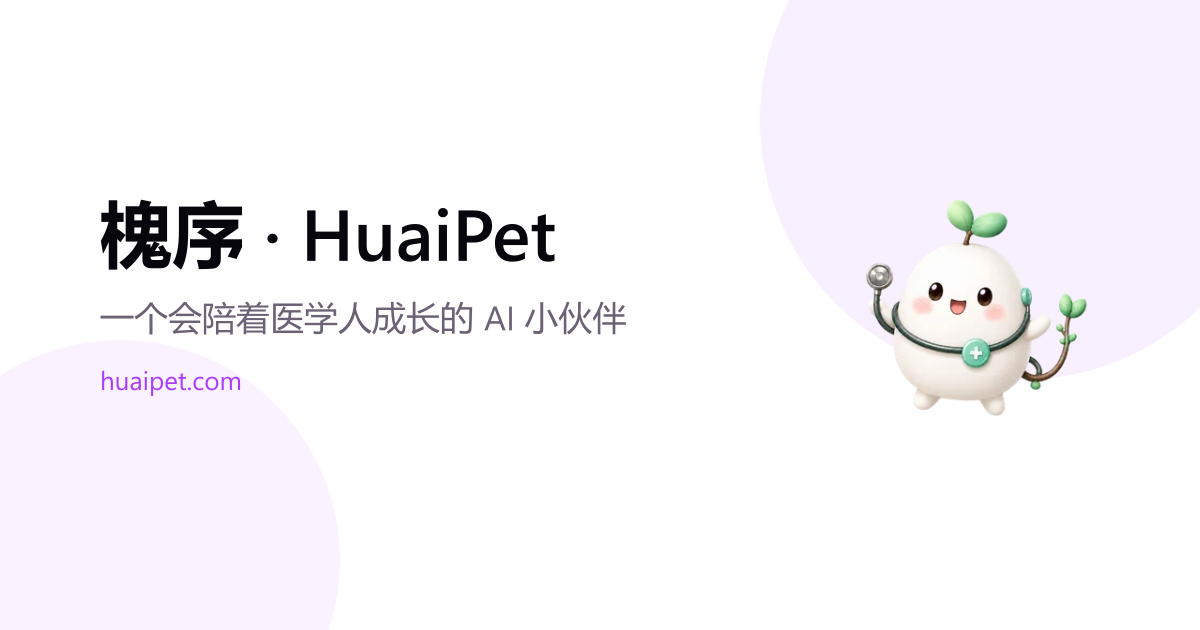
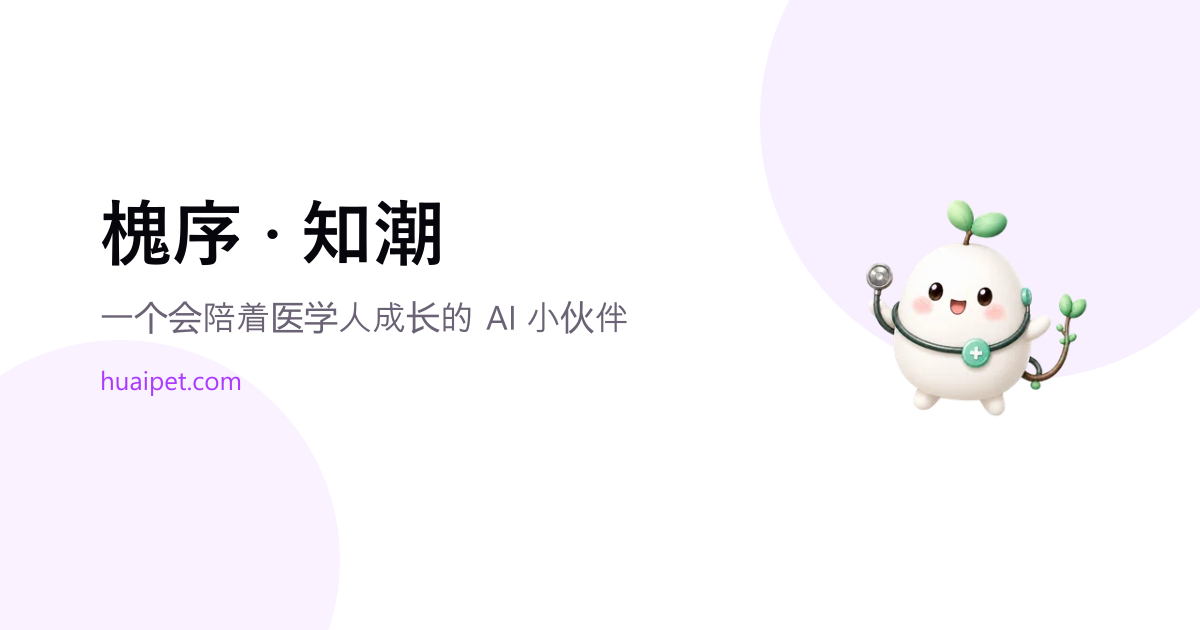
feat: rebrand public site to Zhichao

Changed region(s): [[0.0617, 0.3016, 0.4625, 0.4222], [0.0925, 0.4825, 0.5242, 0.5429]]

diff --git a/src/App.tsx b/src/App.tsx
@@ -89,8 +89,8 @@ function detectPlatform() {
 }
 
 const platformNotices: Record<string, string> = {
-  ios: '检测到你可能在用 iOS/iPadOS 设备——HuaiPet 目前只支持 Android，iOS 版本还在开发中，敬请期待。',
-  harmonyos: '检测到你可能在用鸿蒙系统——HuaiPet 目前只支持 Android，鸿蒙原生版本我们还在评估适配方案。',
+  ios: '检测到你可能在用 iOS/iPadOS 设备——知潮目前只支持 Android，iOS 版本还在开发中，敬请期待。',
+  harmonyos: '检测到你可能在用鸿蒙系统——知潮目前只支持 Android，鸿蒙原生版本我们还在评估适配方案。',
 }
 
 const platforms = [
@@ -108,7 +108,7 @@ const platforms = [
 const cocreateRoles = [
   {
     title: '剪辑 / 视频创作',
-    desc: '槐序 HuaiPet 的抖音开发日记需要人帮忙剪素材、把开发过程做成好看的内容，一起把这个项目的故事讲给更多人听。',
+    desc: '槐序工作室的知潮开发日记需要人帮忙剪素材、把开发过程做成好看的内容，一起把这个项目的故事讲给更多人听。',
   },
   {
     title: '插画 / 角色设计',
@@ -120,16 +120,16 @@ const cocreateRoles = [
   },
   {
     title: '宣传 / 拉新',
-    desc: '好产品也需要被更多人看到，需要懂社群运营、擅长宣传推广的人帮忙把 HuaiPet 带给更多医学生和医护人员。',
+    desc: '好产品也需要被更多人看到，需要懂社群运营、擅长宣传推广的人帮忙把知潮带给更多医学生和医护人员。',
   },
 ]
 
 const contributors = [
   {
     name: '知许',
-    title: 'HuaiPet 第一批共创成员',
+    title: '知潮第一批共创成员',
     contribution: '宣传协助、内测反馈',
-    thanks: '感谢知许在 HuaiPet 早期内测阶段参与共创，协助宣传、反馈体验，并和我们一起打磨这个给医学人用的 AI 学习工具。',
+    thanks: '感谢知许在知潮（原 HuaiPet）早期内测阶段参与共创，协助宣传、反馈体验，并和我们一起打磨这个给医学人用的 AI 学习工具。',
   },
 ]
 
@@ -139,7 +139,7 @@ const faq = [
     a: '有。本服务包含 AI 拟人化陪伴功能，按《人工智能拟人化互动服务管理暂行办法》仅面向年满 18 周岁的用户。注册时需填写出生年月用于年龄核验；已注册的老用户在新版客户端中也需要补填。',
   },
   {
-    q: 'HuaiPet 免费吗？',
+    q: '知潮免费吗？',
     a: '目前免费，且不提供任何付费购买功能——App 内的金币只能通过学习、答题、完成任务获得，不能用真实货币购买。如果未来提供自愿支持类功能，我们会另行明确告知，并且不会以"增进与朵朵的情感关系"作为付费卖点。',
   },
   {
@@ -178,12 +178,12 @@ const changelog = [
   {
     date: '2026-07-08',
     title: 'Android 内测开启',
-    desc: 'HuaiPet Android 移动端正式开启邀请制内测，通过抖音 @槐序学长 联系获取邀请码。',
+    desc: '知潮（当时名为 HuaiPet）Android 移动端正式开启邀请制内测，通过抖音 @槐序学长 联系获取邀请码。',
   },
   {
     date: '2026-07-07',
     title: '官网上线',
-    desc: '槐序 HuaiPet 官网正式上线，huaipet.com 可以访问了。',
+    desc: '知潮前身“槐序 HuaiPet”的官网正式上线，huaipet.com 可以访问了。',
   },
   {
     date: '2026-07-06',
@@ -239,7 +239,7 @@ function App() {
     <div className="page">
       <header className="nav">
         <div className="nav-inner">
-          <span className="brand">槐序 HuaiPet</span>
+          <span className="brand">槐序 · 知潮</span>
           <nav>
             <a href="#philosophy">理念</a>
             <a href="#features">功能</a>
@@ -339,7 +339,7 @@ function App() {
         <section id="about" className="about">
           <h2 className="section-title reveal">关于我们</h2>
           <p className="reveal">
-            槐序 HuaiPet 是一个正在开发中的独立项目，目标是做一个长期好用、越用越懂你薄弱点的医学学习工具，
+            知潮（原 HuaiPet）是槐序工作室持续开发的学习工具，目标是长期好用、越用越懂你的薄弱点，
             用轻量的陪伴让漫长的医学备考不那么枯燥。项目由个人开发者持续迭代打造，你可以在抖音
             <a href="https://v.douyin.com/4vpWBY5MsL0/" target="_blank" rel="noopener noreferrer"> @槐序学长 </a>
             关注最新进展，或通过邮箱
@@ -352,7 +352,7 @@ function App() {
           <div className="cocreate">
             <h2 className="section-title reveal">招募共创</h2>
             <p className="cocreate-intro">
-              槐序 HuaiPet 目前是一个人在做的独立项目，还没有任何收入——这不是一份工作，是一次"为爱发电"的邀请。
+              知潮目前是槐序工作室主理人独立推进的项目，还没有任何收入——这不是一份工作，是一次"为爱发电"的邀请。
               如果你也觉得"医学备考是场持久战，需要一个长期好用、越用越懂你薄弱点的学习工具"这件事值得做，欢迎一起加入，把它做出来。
             </p>
             <div className="card-grid">
@@ -488,7 +488,7 @@ function App() {
         <p>
           联系邮箱：<a href="mailto:[email redacted]">[email redacted]</a>
         </p>
-        <p>槐序 HuaiPet · 敬请期待</p>
+        <p>槐序工作室 · 知潮</p>
         <p className="ai-notice-footer">
           🤖 朵朵是 AI 程序，不是真人。本站与 App 内的 AI 生成内容仅供学习参考，不构成医疗建议。
         </p>

diff --git a/index.html b/index.html
@@ -7,22 +7,22 @@
     <link rel="apple-touch-icon" href="/apple-touch-icon.png" />
     <link rel="canonical" href="https://huaipet.com/" />
     <meta name="viewport" content="width=device-width, initial-scale=1.0" />
-    <meta name="description" content="槐序 HuaiPet —— 给医学人的 AI 学习搭子：AI 出题、错题复盘、遗忘曲线复习与轻量养成激励。朵朵是 AI 程序，不是真人；本服务仅面向年满 18 周岁的用户。" />
-    <meta name="keywords" content="HuaiPet,槐序,医学学习,AI学习工具,医学考试,医学生,执业医师,智能考试系统,错题本,遗忘曲线复习" />
-    <title>槐序 HuaiPet —— 给医学人的 AI 学习搭子</title>
+    <meta name="description" content="槐序 · 知潮（原 HuaiPet）—— 给医学人的 AI 学习搭子：AI 出题、错题复盘、遗忘曲线复习与轻量养成激励。朵朵是 AI 程序，不是真人；本服务仅面向年满 18 周岁的用户。" />
+    <meta name="keywords" content="知潮,HuaiPet,槐序,医学学习,AI学习工具,医学考试,医学生,执业医师,智能考试系统,错题本,遗忘曲线复习" />
+    <title>槐序 · 知潮 —— 给医学人的 AI 学习搭子</title>
 
     <meta property="og:type" content="website" />
     <meta property="og:url" content="https://huaipet.com/" />
-    <meta property="og:site_name" content="槐序 HuaiPet" />
+    <meta property="og:site_name" content="槐序 · 知潮" />
     <meta property="og:locale" content="zh_CN" />
-    <meta property="og:title" content="槐序 HuaiPet" />
+    <meta property="og:title" content="槐序 · 知潮" />
     <meta property="og:description" content="给医学人的 AI 学习搭子。朵朵是 AI 程序，不是真人；仅面向年满 18 周岁的用户。" />
     <meta property="og:image" content="https://huaipet.com/og-image.png" />
     <meta property="og:image:width" content="1200" />
     <meta property="og:image:height" content="630" />
-    <meta property="og:image:alt" content="槐序 HuaiPet —— 给医学人的 AI 学习搭子" />
+    <meta property="og:image:alt" content="槐序 · 知潮 —— 给医学人的 AI 学习搭子" />
     <meta name="twitter:card" content="summary_large_image" />
-    <meta name="twitter:title" content="槐序 HuaiPet" />
+    <meta name="twitter:title" content="槐序 · 知潮" />
     <meta name="twitter:description" content="给医学人的 AI 学习搭子。朵朵是 AI 程序，不是真人。" />
     <meta name="twitter:image" content="https://huaipet.com/og-image.png" />
 
@@ -30,7 +30,7 @@
       {
         "@context": "https://schema.org",
         "@type": "SoftwareApplication",
-        "name": "槐序 HuaiPet",
+        "name": "槐序 · 知潮",
         "url": "https://huaipet.com/",
         "description": "给医学人的 AI 学习工具：AI 出题、错题复盘、遗忘曲线复习与轻量养成激励。朵朵是 AI 程序、不是真人；仅面向年满 18 周岁用户，AI 生成内容仅供学习参考。",
         "applicationCategory": "EducationalApplication",

diff --git a/public/legal/privacy.html b/public/legal/privacy.html
@@ -3,7 +3,7 @@
   <head>
     <meta charset="UTF-8" />
     <meta name="viewport" content="width=device-width, initial-scale=1.0" />
-    <title>隐私政策 · 槐序 HuaiPet</title>
+    <title>隐私政策 · 知潮</title>
     <link rel="icon" type="image/png" href="/favicon-32.png" />
     <link rel="stylesheet" href="/legal/legal.css" />
   </head>
@@ -14,8 +14,8 @@
       <p class="legal-updated">生效日期 / 最后更新：2026-07-15（上一版本：2026-07-10）</p>
 
       <p>
-        本隐私政策适用于“槐序 HuaiPet”官网（huaipet.com）以及 HuaiPet
-        系列客户端。HuaiPet
+        本隐私政策适用于“知潮（原 HuaiPet）”官网（目前为 huaipet.com）以及知潮
+        系列客户端。知潮
         目前由个人开发者维护。我们非常重视你的隐私，本文说明我们会收集哪些信息、
         为什么收集、如何使用与保护、数据存储在哪里、保存多久，以及你能行使哪些权利。
       </p>
@@ -73,7 +73,7 @@
       </p>
       <p><strong>（四）谁能看到、会不会外传</strong></p>
       <ul>
-        <li><strong>仅限管理员</strong>（目前 HuaiPet 的管理员只有开发者本人）。危机级事件会触发一条后台提醒，但<strong>该提醒本身不包含你的任何个人信息</strong>（不含昵称、账号，也不含你的原话）——它只是提示管理员“有人需要跟进”。你的身份与原话摘要<strong>只能在后台的「风险干预」页面查看</strong>，该页面是<strong>实时读取上述记录</strong>的，因此你一旦注销账号，记录随之删除，管理员也就再也无法查看。这样设计是为了确保“注销即删除”是真的，而不是在别处留下删不掉的副本。同一用户 1 小时内的重复消息只提醒一次。</li>
+        <li><strong>仅限管理员</strong>（目前知潮的管理员只有开发者本人）。危机级事件会触发一条后台提醒，但<strong>该提醒本身不包含你的任何个人信息</strong>（不含昵称、账号，也不含你的原话）——它只是提示管理员“有人需要跟进”。你的身份与原话摘要<strong>只能在后台的「风险干预」页面查看</strong>，该页面是<strong>实时读取上述记录</strong>的，因此你一旦注销账号，记录随之删除，管理员也就再也无法查看。这样设计是为了确保“注销即删除”是真的，而不是在别处留下删不掉的副本。同一用户 1 小时内的重复消息只提醒一次。</li>
         <li><strong>危机级消息不会被发送给第三方大模型服务商 DeepSeek</strong>——它在到达 AI 之前就被服务器拦下并直接作答了。</li>
         <li>我们<strong>不会</strong>把这类记录用于广告、画像、评级、推荐或任何商业用途，<strong>不会</strong>提供给任何第三方（依法配合有权机关的法定要求除外），<strong>不会</strong>与你的学习数据、成绩数据混用，也不会因此对你的账号做任何不利处置。</li>
       </ul>
@@ -145,7 +145,7 @@
 
       <h2>5. 第三方服务与向第三方提供信息</h2>
       <p>
-        HuaiPet 的 AI 对话、出题、知识树与解析功能依赖第三方大模型服务商 <strong>DeepSeek（深度求索）</strong>。
+        知潮的 AI 对话、出题、知识树与解析功能依赖第三方大模型服务商 <strong>DeepSeek（深度求索）</strong>。
       </p>
       <p>
         <strong>接收方信息</strong>：接收方为杭州深度求索人工智能基础技术研究有限公司（DeepSeek，深度求索），官网 <a href="https://www.deepseek.com" target="_blank" rel="noopener noreferrer">deepseek.com</a>；其隐私政策见 <a href="https://cdn.deepseek.com/policies/zh-CN/deepseek-privacy-policy.html" target="_blank" rel="noopener noreferrer">DeepSeek 隐私政策</a>，联系方式以其官网/隐私政策公示为准。
@@ -255,7 +255,7 @@
         <li><strong>同意记录（含撤回记录）</strong>：为履行《个人信息保护法》上"能证明你确曾同意"的举证义务，这类记录是<strong>唯一的例外——注销后仍会保留</strong>（仅含同意类型、条款版本、时间、注册 IP 的哈希值，不含其它个人数据）。详见第 8 章。</li>
       </ul>
       <p>
-        尽管我们采取合理的安全措施，但请注意目前 HuaiPet 仍处于产品早期迭代阶段，无法对数据零丢失做绝对保证，建议重要的学习记录留意应用内的保存/导出功能。
+        尽管我们采取合理的安全措施，但请注意目前知潮仍处于产品早期迭代阶段，无法对数据零丢失做绝对保证，建议重要的学习记录留意应用内的保存/导出功能。
       </p>
 
       <h2>9. 你的权利</h2>
@@ -307,7 +307,7 @@
 
       <h2>10. 未成年人保护：本服务仅面向年满 18 周岁的用户</h2>
       <p>
-        HuaiPet 是一款包含<strong>拟人化情感陪伴</strong>特征的产品（亲密度、心情、持续陪伴）。依据《人工智能拟人化互动服务管理暂行办法》<strong>第十四条</strong>及《未成年人保护法》，我们<strong>不向未成年人提供本服务</strong>，也不向未成年人提供任何形式的虚拟情感或亲密关系陪伴。
+        知潮是一款包含<strong>拟人化情感陪伴</strong>特征的产品（亲密度、心情、持续陪伴）。依据《人工智能拟人化互动服务管理暂行办法》<strong>第十四条</strong>及《未成年人保护法》，我们<strong>不向未成年人提供本服务</strong>，也不向未成年人提供任何形式的虚拟情感或亲密关系陪伴。
       </p>
       <ul>
         <li><strong>注册即拦截</strong>：注册时必须填写<strong>出生年份与月份</strong>；据此计算未满 18 周岁的，<strong>直接拒绝注册</strong>，不会为其创建账号。</li>

diff --git a/public/legal/disclaimer.html b/public/legal/disclaimer.html
@@ -3,7 +3,7 @@
   <head>
     <meta charset="UTF-8" />
     <meta name="viewport" content="width=device-width, initial-scale=1.0" />
-    <title>免责声明 · 槐序 HuaiPet</title>
+    <title>免责声明 · 知潮</title>
     <link rel="icon" type="image/png" href="/favicon-32.png" />
     <link rel="stylesheet" href="/legal/legal.css" />
   </head>
@@ -14,7 +14,7 @@
       <p class="legal-updated">生效日期 / 最后更新：2026-07-15</p>
 
       <div class="legal-callout">
-        <strong>🤖 朵朵是 AI 程序，不是真人。</strong>HuaiPet 是一款带轻量陪伴的医学学习工具，产品内由 AI 生成的全部内容（包括聊天回复、题目、答案与解析）<strong>仅供学习参考，可能出现错误，不得作为医疗、诊断、用药、治疗或考试作答的依据</strong>。本服务<strong>不是心理危机干预服务，也不是急救服务</strong>；如遇紧急情况，请立即拨打 <strong>110 / 120</strong>，或拨打全国统一心理援助热线 <strong>12356</strong>。
+        <strong>🤖 朵朵是 AI 程序，不是真人。</strong>知潮（原 HuaiPet）是一款带轻量陪伴的医学学习工具，产品内由 AI 生成的全部内容（包括聊天回复、题目、答案与解析）<strong>仅供学习参考，可能出现错误，不得作为医疗、诊断、用药、治疗或考试作答的依据</strong>。本服务<strong>不是心理危机干预服务，也不是急救服务</strong>；如遇紧急情况，请立即拨打 <strong>110 / 120</strong>，或拨打全国统一心理援助热线 <strong>12356</strong>。
       </div>
 
       <h2>1. 朵朵是 AI 程序，不是真人</h2>
@@ -25,7 +25,7 @@
 
       <h2>2. AI 生成内容不得作为医疗与考试的依据</h2>
       <p>
-        HuaiPet 的聊天陪伴、AI 出题、错题解析等功能由第三方 AI 服务（DeepSeek 深度求索）驱动生成。AI
+        知潮的聊天陪伴、AI 出题、错题解析等功能由第三方 AI 服务（DeepSeek 深度求索）驱动生成。AI
         生成内容可能存在<strong>不准确、不完整、过时、自相矛盾，甚至完全错误（"幻觉"）</strong>的情况，也可能与最新医学指南、教材或考试大纲不一致。
       </p>
       <p>
@@ -43,7 +43,7 @@
 
       <h2>3. 不具备医疗与心理咨询资质</h2>
       <p>
-        朵朵<strong>不是医生、不是药师、不是护士、不是心理咨询师或治疗师</strong>，HuaiPet
+        朵朵<strong>不是医生、不是药师、不是护士、不是心理咨询师或治疗师</strong>，知潮
         也<strong>不具备任何医疗、诊疗或心理咨询/心理治疗资质</strong>，未取得任何相关执业许可。无论朵朵给出怎样的回复，均<strong>不构成医学诊断、治疗方案、用药建议、临床决策意见或心理咨询意见</strong>。
       </p>
       <p>
@@ -81,7 +81,7 @@
 
       <h2>7. 考试与职业成长声明</h2>
       <p>
-        HuaiPet 内的考试系统、错题本、知识树、职业成长路线等功能旨在辅助日常学习和复习安排。题目与解析可能由 AI
+        知潮内的考试系统、错题本、知识树、职业成长路线等功能旨在辅助日常学习和复习安排。题目与解析可能由 AI
         生成或从公开资料整理而来，<strong>不是任何官方考试的真题、押题或考纲</strong>，与官方机构无任何关联。我们不对使用本产品后能否通过任何官方考试（如执业医师资格考试、护士资格考试等）、能否获得相应职称或资格作出任何保证。
       </p>
 
@@ -97,7 +97,7 @@
 
       <h2>10. 责任限制</h2>
       <p>
-        在法律允许的最大范围内，因使用或无法使用本产品（包括依赖 AI 生成内容做出的任何医疗、用药、考试或其它决定）而产生的任何直接或间接损失，HuaiPet
+        在法律允许的最大范围内，因使用或无法使用本产品（包括依赖 AI 生成内容做出的任何医疗、用药、考试或其它决定）而产生的任何直接或间接损失，知潮
         开发者不承担赔偿责任。本声明中的任何内容，均不排除或限制依法不得排除或限制的责任。
       </p>
 

diff --git a/public/invite/index.html b/public/invite/index.html
@@ -3,8 +3,8 @@
 <head>
 <meta charset="utf-8" />
 <meta name="viewport" content="width=device-width, initial-scale=1" />
-<title>邀请 · 槐序 HuaiPet</title>
-<meta name="description" content="你的朋友邀请你一起用 槐序 HuaiPet 备考。" />
+<title>邀请 · 知潮</title>
+<meta name="description" content="你的朋友邀请你一起用知潮备考。" />
 <style>
   * { box-sizing: border-box; margin: 0; padding: 0; }
   body { font-family: -apple-system, "PingFang SC", "Microsoft YaHei", system-ui, sans-serif; background: linear-gradient(160deg, #eaf4ee 0%, #f4f8f6 100%); color: #1f2d27; min-height: 100vh; display: flex; align-items: center; justify-content: center; padding: 20px; }
@@ -21,8 +21,8 @@
 </head>
 <body>
   <div class="card">
-    <div class="logo">🌱 槐序 HuaiPet</div>
-    <p class="lead">你的朋友邀请你一起用 <b>槐序 HuaiPet</b> 备考——一起备考的 AI 学习工具。</p>
+    <div class="logo">🌱 槐序 · 知潮</div>
+    <p class="lead">你的朋友邀请你一起用 <b>知潮</b> 备考——一起备考的 AI 学习工具。</p>
     <p class="hint" style="margin-top:10px;">🤖 朵朵是 AI 程序，不是真人；本服务仅面向年满 18 周岁用户，AI 生成内容仅供学习参考。</p>
     <div class="code-label">你的邀请码</div>
     <div class="code" id="code">—</div>
@@ -33,7 +33,7 @@
   <script>
     var code = (new URLSearchParams(location.search).get("code") || "").trim();
     document.getElementById("code").textContent = code || "（未提供邀请码，请向邀请人索取）";
-    document.title = code ? ("邀请码 " + code + " · 槐序 HuaiPet") : document.title;
+    document.title = code ? ("邀请码 " + code + " · 知潮") : document.title;
   </script>
 </body>
 </html>

diff --git a/public/legal/terms.html b/public/legal/terms.html
@@ -3,7 +3,7 @@
   <head>
     <meta charset="UTF-8" />
     <meta name="viewport" content="width=device-width, initial-scale=1.0" />
-    <title>用户协议 · 槐序 HuaiPet</title>
+    <title>用户协议 · 知潮</title>
     <link rel="icon" type="image/png" href="/favicon-32.png" />
     <link rel="stylesheet" href="/legal/legal.css" />
   </head>
@@ -14,7 +14,7 @@
       <p class="legal-updated">生效日期 / 最后更新：2026-07-15</p>
 
       <p>
-        欢迎使用“槐序 HuaiPet”（以下简称“HuaiPet”或“本产品”）。本产品由<strong>个人开发者</strong>开发与运营（本协议中称“本服务提供者”或“我们”），并非公司主体。本协议是你与本服务提供者之间关于使用本产品（包括官网 huaipet.com 与移动端 App）所订立的协议。使用本产品即表示你已阅读并同意本协议。
+        欢迎使用“知潮（原 HuaiPet）”（以下简称“知潮”或“本产品”）。本产品由<strong>个人开发者</strong>开发与运营（本协议中称“本服务提供者”或“我们”），并非公司主体。本协议是你与本服务提供者之间关于使用本产品（包括目前的官网 huaipet.com 与移动端 App）所订立的协议。使用本产品即表示你已阅读并同意本协议。
       </p>
 
       <div class="legal-callout">
@@ -23,7 +23,7 @@
 
       <h2>1. 服务说明</h2>
       <p>
-        HuaiPet 是一款面向医学考试考生的陪伴式学习产品，提供虚拟学习搭子养成、AI 陪伴对话、智能考试与题库、任务与复习提醒、学习记录云端同步等功能。当前通过 Android 客户端提供服务。产品处于持续迭代阶段，功能和界面可能不定期调整。
+        知潮是一款面向医学考试考生的陪伴式学习产品，提供虚拟学习搭子养成、AI 陪伴对话、智能考试与题库、任务与复习提醒、学习记录云端同步等功能。当前通过 Android 客户端提供服务。产品处于持续迭代阶段，功能和界面可能不定期调整。
       </p>
       <p>
         本产品的云端服务器<strong>当前部署于中国香港</strong>，你使用云端功能时个人信息会传输至中国境外。相关告知、你的单独同意与出境情况详见<a href="/legal/privacy.html">隐私政策</a>。

diff --git a/public/legal/complaints.html b/public/legal/complaints.html
@@ -3,7 +3,7 @@
   <head>
     <meta charset="UTF-8" />
     <meta name="viewport" content="width=device-width, initial-scale=1.0" />
-    <title>投诉举报 · 槐序 HuaiPet</title>
+    <title>投诉举报 · 知潮</title>
     <link rel="icon" type="image/png" href="/favicon-32.png" />
     <link rel="stylesheet" href="/legal/legal.css" />
   </head>
@@ -21,7 +21,7 @@
       </div>
 
       <p>
-        我们重视每一位用户的反馈。如果你认为"槐序 HuaiPet"（以下简称"本产品"）中的 AI
+        我们重视每一位用户的反馈。如果你认为“知潮（原 HuaiPet）”（以下简称“本产品”）中的 AI
         生成内容、拟人化互动内容或我们的服务存在违法违规或不当之处，可以通过本页说明的方式向我们投诉举报。我们将按下述时限受理、核查、处置并向你反馈。
       </p>
 

diff --git a/public/404.html b/public/404.html
@@ -3,7 +3,7 @@
   <head>
     <meta charset="UTF-8" />
     <meta name="viewport" content="width=device-width, initial-scale=1.0" />
-    <title>页面走丢了 · 槐序 HuaiPet</title>
+    <title>页面走丢了 · 知潮</title>
     <link rel="icon" type="image/png" href="/favicon-32.png" />
     <link rel="stylesheet" href="/legal/legal.css" />
     <style>